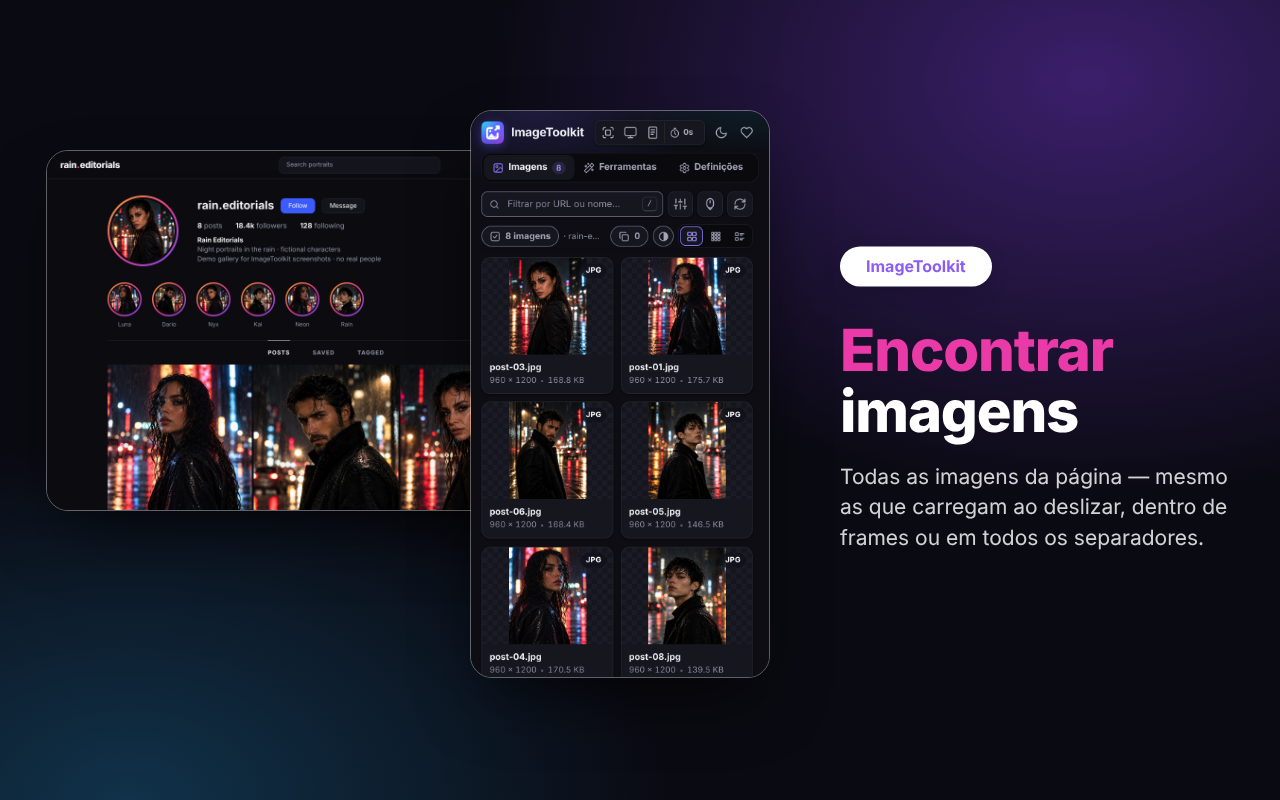
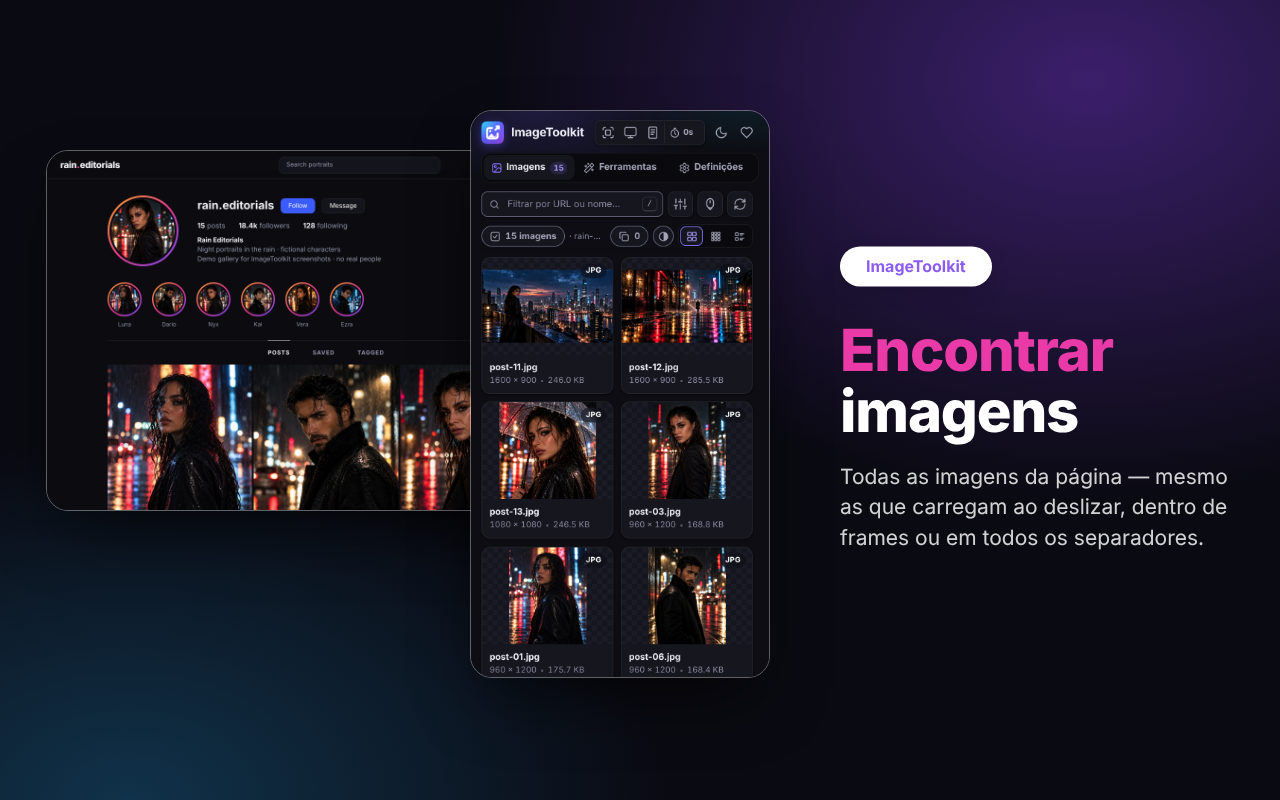
Store demo: five new photos, mixed layouts, PNG and SVG
The demo gallery now has 15 posts without repeats: two new faces
(blue neon, golden light), two 16:9 scenes spanning two columns and a
square close-up, plus a transparent PNG logo and an SVG mark in the
footer, so the Type, Size and Layout filters have something to show.
The editor slide uses the new golden-light portrait.

Claude-Session: https://claude.ai/code/session_01C5vBPVJwonnmePKxiPkJYW

diff --git a/docs/store/demo/index.html b/docs/store/demo/index.html
@@ -34,7 +34,10 @@
   .grid{display:grid;grid-template-columns:repeat(3,1fr);gap:4px}
   .grid img{display:block;width:100%;aspect-ratio:4/5;object-fit:cover}
   .grid figure{margin:0;position:relative}
+  .grid .wide{grid-column:span 2}
+  .grid .wide img{aspect-ratio:auto;height:100%}
   .grid figcaption{position:absolute;left:10px;bottom:8px;font-size:12px;font-weight:600;text-shadow:0 1px 4px #000}
+  .foot{display:flex;align-items:center;justify-content:center;gap:12px;margin-top:40px;opacity:.9}
   .note{margin:34px 0 0;text-align:center;color:var(--muted);font-size:12px}
 </style>
 </head>
@@ -48,7 +51,7 @@
       <div class="avatar"><img src="post-03.jpg" alt="Nyx, profile picture"></div>
       <div class="who">
         <h1>rain.editorials <button class="btn">Follow</button><button class="btn alt">Message</button></h1>
-        <div class="stats"><span><b>8</b> posts</span><span><b>18.4k</b> followers</span><span><b>128</b> following</span></div>
+        <div class="stats"><span><b>15</b> posts</span><span><b>18.4k</b> followers</span><span><b>128</b> following</span></div>
         <div class="bio"><strong>Rain Editorials</strong><br>Night portraits in the rain · fictional characters<br>Demo gallery for ImageToolkit screenshots · no real people</div>
       </div>
     </section>
@@ -57,21 +60,26 @@
       <span class="story"><i><img src="post-06.jpg" alt=""></i>Dario</span>
       <span class="story"><i><img src="post-03.jpg" alt=""></i>Nyx</span>
       <span class="story"><i><img src="post-05.jpg" alt=""></i>Kai</span>
-      <span class="story"><i><img src="post-04.jpg" alt=""></i>Neon</span>
-      <span class="story"><i><img src="post-08.jpg" alt=""></i>Rain</span>
+      <span class="story"><i><img src="post-10.jpg" alt=""></i>Vera</span>
+      <span class="story"><i><img src="post-09.jpg" alt=""></i>Ezra</span>
     </nav>
     <div class="tabs"><span class="on">POSTS</span><span>SAVED</span><span>TAGGED</span></div>
     <section class="grid">
       <figure><img src="post-01.jpg" alt="Luna under neon rain"></figure>
       <figure><img src="post-02.jpg" alt="Dario, close-up"></figure>
       <figure><img src="post-03.jpg" alt="Nyx at a crossing"></figure>
-      <figure><img src="post-04.jpg" alt="Luna, close-up"></figure>
+      <figure class="wide"><img src="post-11.jpg" alt="Rooftop at blue hour"></figure>
+      <figure><img src="post-10.jpg" alt="Vera by the café window"></figure>
+      <figure><img src="post-09.jpg" alt="Ezra in blue neon"></figure>
+      <figure class="wide"><img src="post-12.jpg" alt="The long street"></figure>
+      <figure><img src="post-13.jpg" alt="Under a clear umbrella"></figure>
       <figure><img src="post-05.jpg" alt="Kai in the downpour"></figure>
+      <figure><img src="post-04.jpg" alt="Luna, close-up"></figure>
       <figure><img src="post-06.jpg" alt="Dario by the wall"></figure>
       <figure><img src="post-07.jpg" alt="Nyx, close-up"></figure>
       <figure><img src="post-08.jpg" alt="Kai, close-up"></figure>
-      <figure><img src="post-01.jpg" alt="Luna, city lights"></figure>
     </section>
+    <footer class="foot"><img src="logo.png" alt="rain.editorials" width="180" height="48"><img src="mark.svg" alt="" width="24" height="24"></footer>
     <p class="note">Fictional characters created for this demo.</p>
   </main>
 </body>
